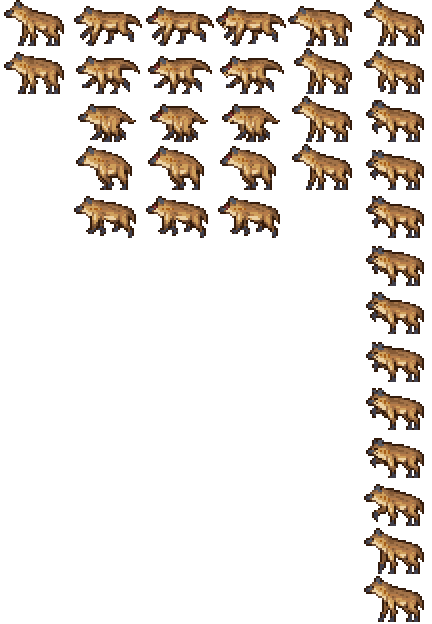
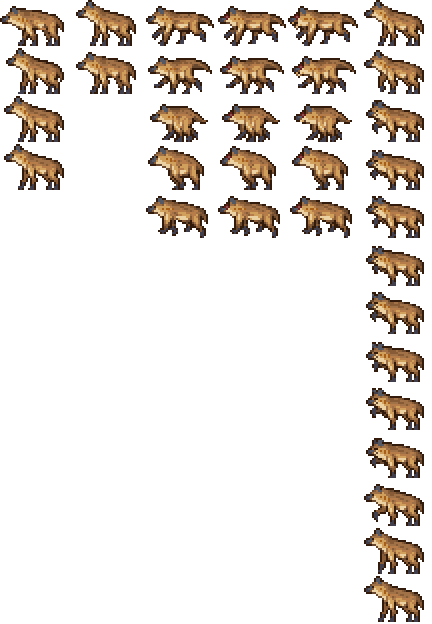
Minor fixes

diff --git a/Content/Savanna/NPCs/Hyena.cs b/Content/Savanna/NPCs/Hyena.cs
@@ -7,7 +7,7 @@ namespace SpiritReforged.Content.Savanna.NPCs;
 [AutoloadBanner]
 public class Hyena : ModNPC
 {
-	private static readonly int[] endFrames = [2, 5, 5, 5, 4, 13];
+	private static readonly int[] endFrames = [4, 2, 5, 5, 5, 13];
 	private bool OnTransitionFrame => (int)NPC.frameCounter == endFrames[AIState] - 1;
 
 	private bool runOffScreen;
@@ -15,11 +15,11 @@ public class Hyena : ModNPC
 
 	private enum State : byte
 	{
+		TrotEnd,
 		TrotStart,
 		Trotting,
 		TrottingAngry,
 		BarkingAngry,
-		TrotEnd,
 		Laugh
 	}
 
@@ -50,6 +50,26 @@ public class Hyena : ModNPC
 
 		switch (AIState)
 		{
+			case (int)State.TrotEnd: //Doubles as our idle state
+				if (Counter == 250)
+					ChangeState(State.Laugh, false);
+				else if (OnTransitionFrame)
+				{
+					if (Counter >= 30)
+						NPC.direction = NPC.spriteDirection = (target.Center.X < NPC.Center.X) ? -1 : 1;
+					if (Counter % 150 == 149 && Main.netMode != NetmodeID.MultiplayerClient && Main.rand.NextBool(3) && NPC.Distance(target.Center) > alertDistance + 24)
+					{
+						ChangeState(State.TrotStart, sync: true);
+						cautious = true; //Hyena will slowly encroach
+					}
+					else if (NPC.Distance(target.Center) < alertDistance)
+						ChangeState(State.TrotStart);
+				}
+
+				NPC.velocity.X = 0;
+
+				break;
+
 			case (int)State.TrotStart:
 				if (OnTransitionFrame)
 					ChangeState(State.Trotting);
@@ -87,26 +107,6 @@ public class Hyena : ModNPC
 				Separate();
 				break;
 
-			case (int)State.TrotEnd: //Doubles as our idle state
-				if (Counter == 250)
-					ChangeState(State.Laugh, false);
-				else if (OnTransitionFrame)
-				{
-					if (Counter >= 30)
-						NPC.direction = NPC.spriteDirection = (target.Center.X < NPC.Center.X) ? -1 : 1;
-					if (Counter % 150 == 149 && Main.netMode != NetmodeID.MultiplayerClient && Main.rand.NextBool(3) && NPC.Distance(target.Center) > alertDistance + 24)
-					{
-						ChangeState(State.TrotStart, sync: true);
-						cautious = true; //Hyena will slowly encroach
-					}
-					else if (NPC.Distance(target.Center) < alertDistance)
-						ChangeState(State.TrotStart);
-				}
-
-				NPC.velocity.X = 0;
-
-				break;
-
 			case (int)State.Laugh:
 				if (OnTransitionFrame)
 				{
@@ -119,14 +119,13 @@ public class Hyena : ModNPC
 
 		if (IsAngry) //Accounts for states TrottingAngry and BarkingAngry
 		{
+			Collision.StepUp(ref NPC.position, ref NPC.velocity, NPC.width, NPC.height, ref NPC.stepSpeed, ref NPC.gfxOffY);
+			if (NPC.collideX && NPC.velocity == Vector2.Zero && Counter % 5 == 0)
+				NPC.velocity.Y = -6.5f; //Jump
+
 			const float runSpeed = 5.5f;
 			float distance = MathHelper.Clamp(NPC.Distance(target.Center) / (16 * 5), 0, 1);
 			NPC.velocity.X = MathHelper.Lerp(NPC.velocity.X, Math.Sign(target.Center.X - NPC.Center.X) * runSpeed, .002f + distance * .08f);
-
-			Collision.StepUp(ref NPC.position, ref NPC.velocity, NPC.width, NPC.height, ref NPC.stepSpeed, ref NPC.gfxOffY);
-
-			if (NPC.collideX && NPC.velocity.X == 0 && Counter % 30 == 0)
-				NPC.velocity.Y = -6.5f; //Jump
 
 			if (AIState == (int)State.BarkingAngry)
 			{

diff --git a/Common/NPCCommon/PackAttribute.cs b/Common/NPCCommon/PackAttribute.cs
@@ -6,11 +6,11 @@ namespace SpiritReforged.Common.NPCCommon;
 [AttributeUsage(AttributeTargets.Class)]
 public class SpawnPackAttribute : Attribute
 {
-	public SpawnPackAttribute(int size) => (MinSize, MaxSize) = (size, size);
-	public SpawnPackAttribute(int minSize, int maxSize) => (MinSize, MaxSize) = (minSize, maxSize);
-
 	public int MinSize { get; private set; }
 	public int MaxSize { get; private set; }
+
+	public SpawnPackAttribute(int size) => (MinSize, MaxSize) = (size, size);
+	public SpawnPackAttribute(int minSize, int maxSize) => (MinSize, MaxSize) = (minSize, maxSize);
 }
 
 internal class PackGlobalNPC : GlobalNPC
